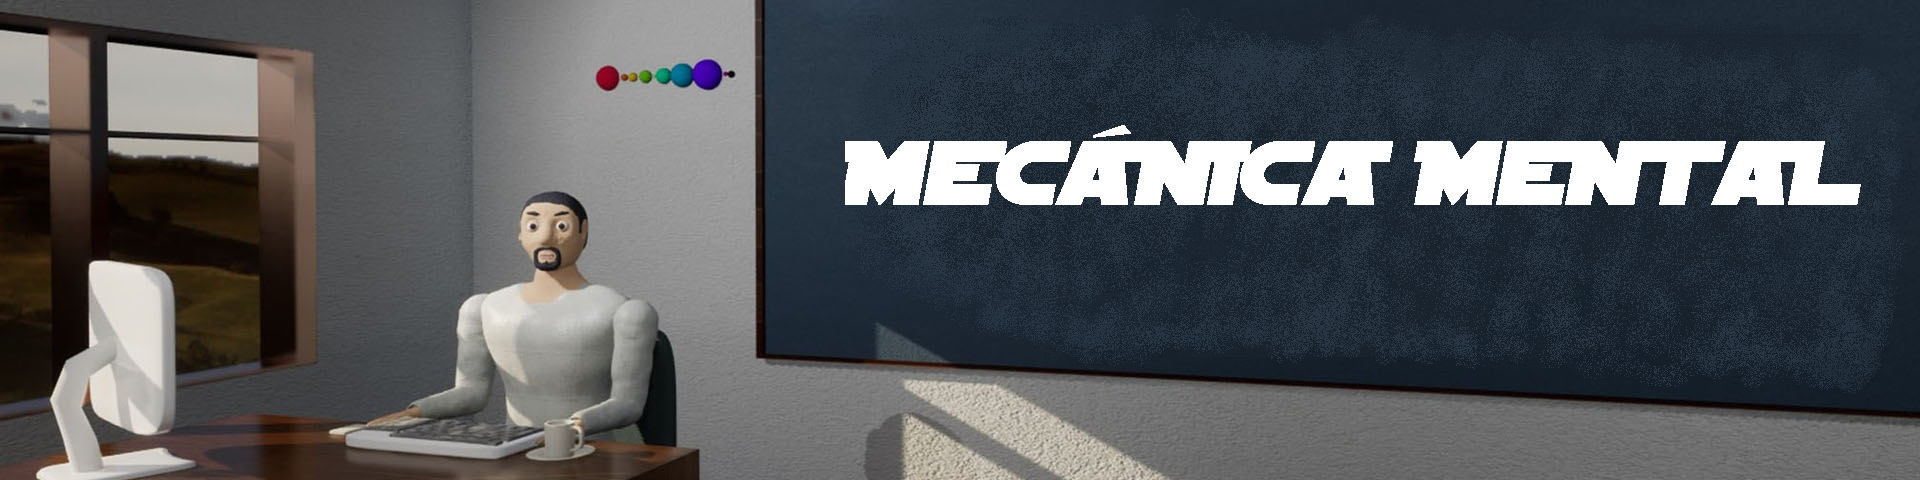
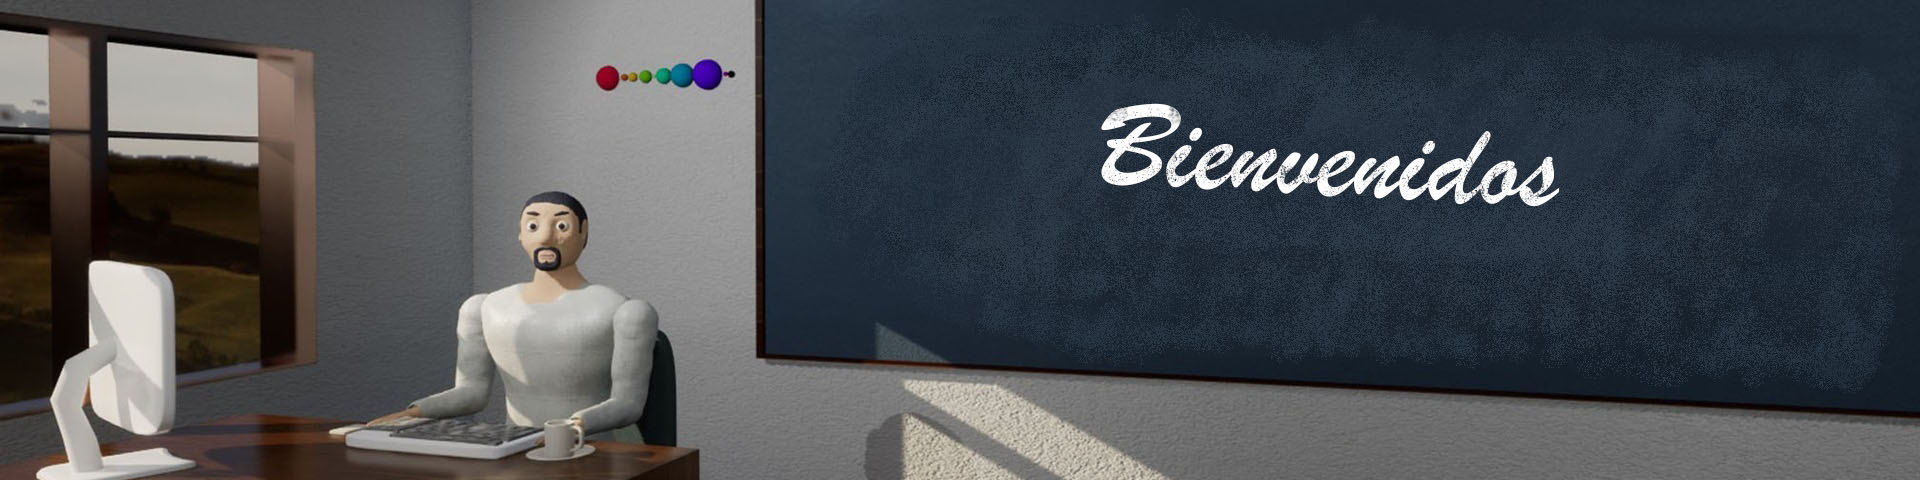
Add files via upload

Changed region(s): [[0.4375, 0.2188, 0.9688, 0.5938]]

diff --git a/index.html b/index.html
@@ -10,75 +10,144 @@
   </head>
   <body style="background-color: black;">
     <img src="imagenes/banner_A.jpg" alt="" class="banner">
-        <h1>Mecánica Mental</h1>
+    <img src="imagenes/banner_A2.jpg" alt="" class="banner">
     <main>
-      <h2 class="titulo">La educación como base para la salud mental, y para una vida en plenitud.</h2>
-      <!--Titulo temporal-->
-      <p>Mecánica Mental, es un sistema educativo dedicado a la comprensión de la mente, y el pensamiento, desarrollado desde la perspectiva del propio usuario de la mente, enfocado al uso eficiente de la mente del propio usuario, y expuesto en palabras simples y fáciles de asimilar.</p>
-      <p>El contenido de la educación mental, proporciona a cada persona conocimientos, experiencia, y saberes que le ayudarán a conocer, y comprender la forma en que los pensamientos se desarrollan, la influencia que estos tienen en nuestra vida, y los métodos que podemos utilizar para aprovechar su capacidad.
-      </p>
-      <p>La educación mental, es un enorme faltante en nuestro estilo de vida, y en nuestra formación como seres humanos. Y ese faltante, es el origen de nuestra ignorancia, de nuestros problemas, de nuestros conflictos, y de nuestro sufrimiento.</p>
+            <!--Titulo temporal-->
+      <img src="imagenes/indice_A.jpg" alt="" class="banner">
+      <div class="contenedor">
+        <img src="imagenes/miniatura_A.jpg" alt="" class="miniatura">
+         <div>
+              <h2>La educación mental, es un sistema educativo dedicado a la comprensión de la mente, los pensamientos, y las ideas.</h2>
+              <p>Este sistema ha sido desarrollado desde la perspectiva del propio usuario de la mente, y se encuentra enfocado al uso eficiente de la mente del propio usuario.</p>
+              <p>El contenido de la educación mental, proporciona a cada estudiante conocimientos, experiencia, y saberes que le ayudarán a conocer, y comprender la forma en que los pensamientos se desarrollan, la influencia que estos tienen en su vida, y los métodos que puede utilizar para aprovechar su capacidad, sin poner en riesgo su salud física, y mental.</p>
+              <p>Dentro de este sistema educativo se incluyen temas básicos y sumamente primordiales referentes al plano de los pensamientos, los cuales son de suma importancia para la formación de bases sólidas en el proceso mental encargado de generar ideas, y pensamientos.</p>
+              <p>Estas bases, permitirán que el estudiante haga uso de su capacidad mental sin poner en riesgo su salud mental, estabilizaran e incrementaran su capacidad de uso, al conocer los procesos con los que funciona su mente, y además, le ayudaran a obtener una experiencia de vida estable, armoniosa, y prospera.</p>
+        </div>
+      </div>
+      <h2>Todo el contenido incluido en este sistema educativo ha sido desarrollado y redactado en palabras simples, y fáciles de asimilar, para así poder ser aplicadas en cada situación de nuestra vida diaria, y en cada problema que nos toque resolver.</h2>
       <br>
-      <img src="imagenes/banner_B.jpg" alt="" class="banner">
+      <img src="imagenes/indice_B.jpg" alt="" class="banner">
+      <div class="contenedor">
+        <img src="imagenes/miniatura_B.jpg" alt="" class="miniatura">
+          <div>
+              <h2>Mecánica Mental es una investigación que ha sido desarrollada desde una experiencia de vida, de forma personal, y autodidacta. </h2>
+              <p>Originalmente, estaba orientada a servir como solución y respuesta a mis propios problemas mentales y personales, y luego de comprobar su utilidad y sus beneficios, ha sido rediseñada y redactada para ser compartida, y ser de utilidad a quien la necesite.</p>
+              <p>Hace aproximadamente nueve años, una pregunta y una serie de interrogantes existenciales, hicieron presencia en mi mente y mis pensamientos, y su aparición, inicio una larga cadena de problemas mentales de elevada complejidad, que marcaron el fin de una etapa de paz, estabilidad y prosperidad en mi vida.</p>
+              <p>Luego de batallar por mucho tiempo en mi interior, logre poner fin a esa cadena de problemas, y logre recuperar esa paz y esa estabilidad que había perdido. </p>
+              <p>Y si logre recuperarlos, fue gracias al trabajo que hice en mí mismo, a los métodos de resolución que logre desarrollar para tratar mis propios problemas, y gracias a que fui capaz de comprender el oculto funcionamiento de mi mente.</p>
+          </div>
+      </div>
+      <p>Lograr recuperar esa paz, y esa estabilidad, me permitió enfocar mi atención por completo en esa pregunta y en esas interrogantes que aparecieron al inicio, me permitió comprender los problemas que se estaban presentando sin cesar en mis pensamientos, me permitió desarrollar una serie de métodos de observación y comprensión, y además, me permitió desarrollar una serie de conclusiones, que pueden ser de gran utilidad para tratar los problemas mentales, utilizando para ello un sistema educativo fácil de comprender, y simple de asimilar.</p>
+      <p>Inicie el desarrollo de esta investigación luego de recuperar esa paz, y esa estabilidad, y dentro de ese lapso de tiempo, me he dedicado a observar mis pensamientos, poner mi atención en mi mente, desarrollar métodos de análisis para comprenderlos, obtener conclusiones sobre lo comprendido, poner en práctica lo comprendido, comprobar la veracidad de las conclusiones comprendidas, y en base a toda esa investigación, redactar los resultados en la forma de una tesis.</p>
+      <h2>Durante todo este tiempo, he tenido que aprender mucho sobre mi mente, y luego de tomar la decisión de compartir mi trabajo y mis conclusiones, he tenido que aprender mucho más.</h2>
       <br>
-      <img src="imagenes/banner_C.jpg" alt="" class="banner">
+      <img src="imagenes/indice_C.jpg" alt="" class="banner">
+      <div class="contenedor">
+        <img src="imagenes/miniatura_C.jpg" alt="" class="miniatura">
+        <div>
+            <h2>El principal objetivo de la educación mental es ofrecer al estudiante herramientas de comprensión mental, con las cuales será capaz de conocer los métodos que utiliza su mente para desarrollar ideas y pensamientos, y con ellos, podrá hacer uso de su capacidad creativa, su capacidad racional, y su capacidad mental en general de una manera óptima, segura, y estable.</h2>
+            <p>El concepto de educación mental, su contenido, su enfoque, y sus objetivos, son un grupo de ideas que fui desarrollando mientras me encontraba luchando por resolver mis propios problemas, y mientras realizaba esta investigación.</p>
+            <p>De esta investigación, logre obtener <strong>tres importantes conclusiones</strong>, y estas, se convirtieron en las bases que determinaron la creación de Mecánica Mental.</p>
+            <p>La <strong>primera conclusión</strong> dice que, esa pregunta, esas interrogantes, y toda esa cadena de problemas que tuve que resolver, tenían su origen en la ignorancia que tenía sobre el funcionamiento de mi mente, y las consecuencias que se desarrollaron a partir de un uso inconsciente, e inadecuado.</p>
+        </div>
+      </div>    
+      <p>La <strong>segunda conclusión</strong>, dice que el origen de esa ignorancia se encuentra en el hecho de que, a lo largo de mi vida, nunca fui educado ni aconsejado de manera apropiada para poder hacer uso de mi capacidad mental, y esto se debe a que en nuestra sociedad y en nuestro sistema educativo no se encuentra incluida la comprensión básica de nuestra capacidad mental, y solo está enfocada al uso que le podemos dar a esa capacidad mental.</p>
+      <p>Y es por este faltante educativo que nos vemos obligados a improvisar en el uso de nuestra mente, tanto a nivel individual, como a nivel de sociedad.</p>
+      <p>La <strong>tercera conclusión</strong>, dice que los problemas mentales son una constante interminable, que nunca se detiene, y que la aparición de los problemas mentales se mantiene, aunque estos sean resueltos. </p>
+      <div class="contenedor">
+        <img src="imagenes/miniatura_D.jpg" alt="" class="miniatura">
+        <div>
+            <p>En otras palabras, si resolvemos un problema, un nuevo problema ocupara su lugar.</p>
+            <p>Estas conclusiones, me dieron a entender que la búsqueda por solucionar nuestros problemas no tiene sentido si no se encuentra un fin, y que nuestra mejor opción es volvernos conscientes de que estamos provocando su aparición, volvernos conscientes de que nuestras acciones son su origen, y ser conscientes de que el uso inadecuado que le damos a nuestra mente, es la principal fuente de todos esos problemas.</p>
+            <p>Es cierto que cada problema, tiene una solución determinada capaz de ponerle fin, y que, en base a esta regla, podemos pensar que la búsqueda de soluciones es el camino más adecuado, sin embargo, si no nos damos cuenta que estamos generando esos problemas, y no comprendemos que su origen se encuentra en nuestras manos, ese camino nunca llegara a su fin.</p>
+            <p>No se trata solo de resolver problemas, también se trata de comprender que esos problemas los estamos generando, y si somos capaces de comprender esto, una enorme cantidad de posibilidades se abrirán frente a nuestros ojos.</p>
+        </div>
+      </div>      
+      <h2>Es por esto que el objetivo de la educación mental se encuentra enfocada a la comprensión del funcionamiento de la mente, y los pensamientos, ya que por medio de este conocimiento podemos dar resolución a nuestros problemas, podemos comprender que significan esos problemas, y podemos evitar su aparición, comprendiendo que somos el origen de esos problemas.</h2>
       <br>
-      <h2>Introducción</h2>
-      <p>Desde el momento de mi nacimiento, y desde que tengo memoria, mi mente y mi pensamiento, siempre han sido mi compañía, mi guía, y mi herramienta, con la cual le he ido dando forma a mi vida, mi existencia, y mi personalidad.</p>
-      <p>Como toda persona racional de este mundo, he usado mi mente, y mi pensamiento para comprender el mundo que me rodea, resolver problemas,  guardar memorias, comprender mis acciones, tomar elecciones, evaluar decisiones, e imaginar posibilidades.</p>
-      <p>Durante toda mi vida, mi mente y mi pensamiento, han servido de una forma correspondiente al uso que le he dado, y ha respondido correctamente a mi personalidad, mis gustos, y mis preferencias, hasta cierto punto…</p>
-      <p>En cierto punto de mi vida, una duda nació dentro de mi, una duda que con el tiempo se hizo más y más grande, generando preguntas, interrogantes, misterios, y una profunda sensación de desconocimiento e ignorancia.</p>
-      <p>Esta sensación, me ha acompañado por el resto de mi vida, provocando en mi interior una profunda inestabilidad emocional, miedo e inseguridad a la hora de hacer uso de aquello que lo había provocado, mi mente y mi pensamiento.</p>
-      <p>Desde que esa duda nació, he tenido que dedicar parte de mi tiempo, mi esfuerzo, mi voluntad, y mi concentración, en lograr dar respuesta a todas esas preguntas que se habían estado generando sin cesar, con el objetivo de volver a obtener paz, seguridad, y tranquilidad.</p>
-      <p>El camino ha sido largo, difícil, lleno de peligros, pérdidas, y sufrimiento, y a pesar de todo lo que tuve que vivir, y por todo lo que tuve que pasar, no me arrepiento de haberlo hecho, ya que el aprendizaje, las enseñanzas, los conocimientos, la experiencia, y las respuestas que logre traer hasta aquí, son de un valor sin igual, que compensan generosamente la balanza de mi equilibrio, mi paz, mi estabilidad, y mi felicidad.</p>
-      <p>Hoy, estimado lector, quiero compartir contigo aquello que aprendí, aquello que viví, aquello que comprendí, y aquello que experimente, con el propósito de que este te sea de utilidad a lo largo de tu vida y tu experiencia en este vasto y bello mundo, y para que no acabes por los lugares donde me tocó pasar.</p>
+      <img src="imagenes/indice_D.jpg" alt="" class="banner">
+      <div class="contenedor">
+        <img src="imagenes/miniatura_E.jpg" alt="" class="miniatura">
+        <div>
+            <h2>El primer beneficio que el estudiante podrá obtener al adquirir educación mental, será estabilidad al hacer uso de su capacidad mental.</h2>
+            <h2>Si el estudiante logra obtener estabilidad, el segundo beneficio que podrá obtener, será aclarar su capacidad mental, y optimizar los procesos con los que su mente desarrolla sus ideas, y sus pensamientos.</h2>
+            <p>Cada día de nuestra vida, hacemos uso de nuestra capacidad mental, y todo lo que hacemos se encuentra influenciado por nuestra mente.</p>
+            <p>Si comprendemos la enorme importancia que tiene esta capacidad para nuestra vida, entonces podremos comprender porque la estabilidad es tan importante.</p>
+            <p>Nuestra vida diaria, se encuentra construida por un interminable camino de problemas que debemos resolver de forma constante, y como ya te he explicado, la gran mayoría de esos problemas, son producidos por nosotros mismos, y sin ser conscientes de ello.</p>
+        </div>
+      </div>
+      <div class="contenedor">
+        <img src="imagenes/miniatura_F.jpg" alt="" class="miniatura">
+        <div>
+            <p>Todos esos problemas, poseen una complejidad variable que se encuentra en un constante aumento, y ese aumento, es el encargado de desestabilizar y desequilibrar nuestra capacidad mental.</p>
+            <p>Cuando somos sobrepasados por nuestros problemas, nuestra mente comienza a funcionar de manera inestable, haciendo que el proceso que se encarga de resolver esos problemas funcione de manera irregular, evitando que podamos resolver nuestros problemas de la manera adecuada, y además, generando nuevos problemas en el camino.</p>
+            <p>Somos seres humanos, seres vivos provistos de una descomunal capacidad mental, y esta capacidad, es la mayor diferencia que podemos encontrar al compararnos con las demás especies de seres vivos.</p>
+            <p>Esa descomunal capacidad mental, se encuentra enfocada principalmente en resolver los problemas que nos afectan, y esos problemas, actúan como limitadores, que evitan que podamos enfocar esa descomunal capacidad mental en otras tareas.</p>
+            <p>Si somos capaces de estabilizar el funcionamiento de nuestra mente, seremos capaces de resolver los problemas que se nos presenten de manera óptima, y rápida.</p>
+        </div>
+      </div>
+      <h2>Y gracias a ese estado de funcionamiento, nuestra mente dejara de funcionar con la resolución de problemas como prioridad, liberara su potencial, y podremos hacer uso de ese potencial para enfocarlo en lo que más nos guste, o lo que más necesitemos.</h2>
       <br>
-      <h2>Origen y fuentes</h2>
-      <p>Antes de comenzar a compartir este sistema educativo, lo primero que debo hacer es revelar el origen y las fuentes de este material, ya que es necesario y fundamental a la hora de comprender en profundidad cada una de sus partes.</p>
-      <p>En primer lugar, debo advertirte que no soy psicólogo, filósofo, ni escritor. Tampoco poseo estudios universitarios de ningún tipo que avalen y certifiquen mi experiencia en esta área de trabajo.
-        Todo lo escrito, todo lo aprendido, todo lo comprendido, todo lo compartido, y todo lo que se encuentra plasmado en este taller ha sido obtenido por mi mismo, por medio de mi propia experiencia, y por un trabajo que hice en mi mismo.</p>
-      <p>Como a cada habitante de este mundo, mi vida y mis elecciones me llevaron por una serie de situaciones y experiencias específicas. Y fueron estas vivencias las que dieron como fruto esta investigación, este taller, estas conclusiones, y este material.</p>
-      <p>Dentro de este taller, utilizaré y compartiré parte de mis experiencias y vivencias, con el objetivo de servir de ejemplo, de experiencia, y de apoyo a la hora de expresar respuestas, mostrar resultados, y compartir conocimientos.</p>
-      <p>Te recuerdo, y te advierto antes de comenzar, que este estudio no busca ser expresado como una verdad absoluta, ni como un resultado final, sino más bien como una guía, una recomendación, o un sendero que nos lleve a lograr comprender los misterios de la mente y el pensamiento, y con ello, obtener un estado racional armónico, tranquilo, funcional, y a fin a cada persona, y su experiencia de vida.</p>
-      <p>Si lo deseas, y esto te vuelve más fácil su comprensión, puedes tomar este taller como la “opinión” de alguien, sobre un tema en específico, que arroja una serie de particulares conclusiones y resultados, los cuales le ayudaron a armonizar, y re ordenar, su propia mente, sus propios pensamientos, y su propia vida.</p>
-      <br>
-      <img src="imagenes/proceso.jpg" width="50%;">
+      <img src="imagenes/indice_E.jpg" alt="" class="banner">
+      <div class="contenedor">
+        <img src="imagenes/miniatura_G.jpg" alt="" class="miniatura">
+        <div>
+            <h2>La educación mental se encuentra disponible para todas las personas, y para todas las edades, sin embargo, debido a ciertas características de la mente, hay ciertos puntos que debemos tener en cuenta, ya que estos determinarán el grado en el que este sistema de educación influirá en cada persona.</h2>
+            <p>Nuestra mente, posee dos etapas de desarrollo que determinan su funcionamiento y sus capacidades, <strong>adaptación y resolución</strong>, y debido a esto, debemos comprender que la etapa en la que nos encontremos, determinara como nos afecta la educación mental.</p>
+            <p>Cuando nos encontramos en nuestra etapa de juventud, y aún no hemos alcanzado por completo nuestra madurez, nuestra mente se encuentra en la etapa de <strong>adaptación</strong>, una etapa en la que se encuentra centrada y enfocada en adquirir información para comprender el entorno en el que nos encontramos, obtener y memorizar conocimientos, aprender habilidades, y conocer el mundo que nos rodea.</p>
+            <p>Cuando logramos alcanzar nuestra madurez, y nuestra etapa de adultez, nuestra mente, comienza a trabajar en la etapa de <strong>resolución</strong>, una etapa en la que nuestra mente comienza a desarrollar sus propias conclusiones, y a funcionar en base a esas conclusiones.</p>
+        </div>
+      </div>
+      <p>Esto no significa que las capacidades de aprender de una persona adulta desaparecen, significa que esta capacidad se reduce, para dejar paso a otro tipo de capacidades.</p>
+      <p>Debido a esta característica de nuestra mente, debemos comprender que el momento óptimo para adquirir educación mental es en la juventud, cuando la mente de la persona se encuentra en la etapa de adaptación, aún se encuentra abierta a los cambios, y posee una flexibilidad que le permite alterar su desarrollo.</p>
+      <p>Esto no significa que la educación mental no pueda ser de ayuda, y no pueda ser asimilada por una persona adulta, puede ser de ayuda, y puede ser asimilada, sin embargo, las posibilidades de que esta educación lo afecte, serán menores si la comparamos con una persona que se encuentra en su etapa de juventud.</p>
+      <div class="contenedor">
+        <img src="imagenes/miniatura_H.jpg" alt="" class="miniatura">
+        <div>
+            <h2>Como experiencia, para explicar mejor este punto, puedo decirte que, a mi edad, y a pesar de haber desarrollado esta investigación, no he podido alterar por completo la funcionalidad de mi mente, ya que mi mente se encuentra en la etapa de resolución, y funciona por medio de sus propias conclusiones.</h2>
+            <h2>Para poder modificar ciertas partes de su funcionalidad, he tenido que poner una gran cantidad de voluntad, compromiso y atención en ello, y me he tenido que exigir al máximo para poder contrarrestar mis propias costumbres, ya que la mente, trabaja en base a los hábitos, y las costumbres, y cuando ya las hemos tomado, es muy difícil poder dejarlas.</h2>
+            <p>Cuando somos jóvenes, y nuestra mente aún se encuentra en la etapa de adaptación, los hábitos y las costumbres aún no se encuentran completamente definidos, y pueden cambiarse con facilidad, y debido a esto, es posible incluso alterar el funcionamiento de nuestra mente, para que esta desarrolle ideas y pensamientos de una forma más optima, y eficiente.</p>
+            <h2>Otro punto que debemos tener en cuenta para saber si este sistema educativo nos puede ser de utilidad, es el punto en que nos encontramos de nuestra etapa de juventud.</h2>
+        </div>
 
-      <h2 class="titulo">Todo el contenido se ha desarrollado para ser fácil de comprender, y simple de asimilar.</h2>
-      <hr>
-      <h2>Los objetivos de este sistema educativo son: </h2>
-      <ul>
-        <li>Comprender el funcionamiento de nuestra mente.</li>
-        <li>Fortalecer las raíces de nuestra capacidad mental. </li>
-        <li>Favorecer el crecimiento de nuestra capacidad creativa.</li>
-        <li>Equilibrar el desarrollo de nuestra capacidad racional.</li>
-        <li>Conocer el sistema que genera nuestros pensamientos.</li>
-        <li>Concientizar sobre el uso inadecuado de nuestra capacidad mental, y sobre sus consecuencias.</li>
-        <li>Compartir con el usuario, herramientas y métodos que le permitan armonizar su corriente de pensamientos. </li>
-        <li>Fomentar la autocomprensión, auto resolución, autoaprendizaje, y autoconocimiento.</li>
-        <li>Fortalecer la voluntad, constancia, perseverancia, y esfuerzo, como las claves para el crecimiento.</li>
-      </ul>
-      <hr>
-
-      <h2>Organigrama del taller. (etapa de fundación, y lanzamiento)</h2>
-      <ul>
-        <li>El taller se dicta de manera presencial, y particular.</li>
-        <li>Consta de tres talleres semanales, de una hora de duración.</li>
-        <li>El lugar de dictado, y la hora, se establece con cada persona. Puede ser domicilio particular, o al aire libre. Disponibilidad limitada. (Consulte por horarios libres).</li>
-        <li>Está destinado a personas de entre 17 y 20 años, rango de aprendizaje óptimo. (Consulte las opciones para mayores de 21 años).</li>
-        <li>En etapa de fundación, y lanzamiento, el costo del taller puede ser pagado por medio de donativos, los cuales serán utilizados para continuar con el desarrollo y fundación de la institución.</li>
-      </ul>
-      <hr>
-      <h2>Temas incluidos en la primera parte del taller.</h2>
-      <h4>Esta parte del taller posee un enfoque teórico, y su contenido tiene como objetivo conocer y comprender el proceso que se desarrolla en nuestra mente, y el sistema que le da forma a nuestros pensamientos.</h4>
+      </div>
+      
+      <p>El contenido de este sistema educativo ha sido desarrollado con palabras simples, y fáciles de asimilar, sin embargo, a pesar de su simplicidad, se requiere de cierta madurez para poder ser comprendido, algo que puede sonar un poco contradictorio.</p>
+      <div class="contenedor">
+        <img src="imagenes/miniatura_I.jpg" alt="" class="miniatura">
+        <div>
+            <h2>Como medida de referencia, podemos tomar el rango de edad de entre diecisiete años (17) y veintiún años (21), como el punto óptimo para que la educación mental afecte al estudiante de la mejor manera.</h2>
+            <p>Lo que debes recordar es que lo importante no es la edad, sino la etapa de desarrollo en la que se encuentra nuestra mente.</p>
+            <p>A partir de los veintiún años, se presenta la adultes y la madurez, y con la llegada de esta etapa, nuestra mente comienza a trabajar por medio de la resolución.</p>
+            <p>La etapa de adultez y madurez, no siempre se da exactamente en esa edad, sin embargo, debemos tener en cuenta que, si se presenta a partir de esa edad, por lo tanto, podemos decir que a partir de los veintiún años nuestra mente ya se dirige hacia su etapa de resolución, lo que no sabemos es en qué momento la alcanzara.</p>
+            <p>Por debajo de los diecisiete años, nos encontramos dentro de la etapa de adaptación, sin embargo, debido a la escases de experiencia, considero a estas edades como poco preparadas para los contenidos incluidos en este sistema educativo.</p>
+        </div>
+      </div>
+      <h2>El objetivo de la Mecánica Mental es presentarse como un sistema educativo desarrollado para todas las edades, sin embargo, debido a la etapa de crecimiento en la que se encuentra el proyecto, solo me es posible centrarme en su rango más optimo.</h2>
+      <br>
+      <img src="imagenes/indice_F.jpg" alt="" class="banner">
+      <div class="contenedor">
+        <img src="imagenes/miniatura_J.jpg" alt="" class="miniatura2">
+        <div>
+            <h2>El material de enseñanza con el que se dicta este sistema educativo está conformado específicamente por la investigación que he desarrollado a lo largo de estos nueve años, y por la redacción de la tesis, que he escrito durante el último año.</h2>
+            <p>El primer volumen de esta tesis, ya se encuentra terminada, y consta de dos partes, contenido <strong>teórico</strong>, y contenido <strong>practico</strong>.</p>
+            <p>El segundo volumen se encuentra en desarrollo, y estará conformado por dos partes, contenido <strong>existencial</strong>, y contenido <strong>mental</strong>.</p>
+            <p>El primer volumen, posee un formato de libro de 340 páginas, y ha sido escrito para servir como base y guía para este sistema educativo. Su redacción, su desarrollo, sus ilustraciones, y su medio de organización han sido parte de mi esfuerzo, y mi trabajo, y como nota personal, debo decirte que ha sido todo un desafío, y todo un privilegio.</p>
+        </div>
+      </div>
+      <h2>Volumen uno, primera parte, contenido teórico.</h2>
+      <div class="contenedor">
+        <img src="imagenes/miniatura_K.jpg" alt="" class="miniatura2">
+        <div>
+            <p>La primera parte de este volumen, posee un enfoque dedicado a la comprensión del funcionamiento de nuestra mente, a nivel personal, y desde la perspectiva de la persona. En otras palabras, no intenta expresar una perspectiva general de la mente, solo busca una comprensión personal.</p>
+            <p>En esta parte, se incluye y se detalla todo el proceso interno que realiza nuestra mente para desarrollar ideas, datos, recuerdos y pensamientos, partiendo desde el momento en el que la información es obtenida por nuestros sentidos, pasando por el proceso que se genera en la oscuridad de nuestro interior, hasta el momento en el que obtenemos el resultado, en la forma de nuestros propios pensamientos.</p>
+            <p>Dentro de esta parte, también se menciona la importancia de nuestra intención, nuestra atención, nuestra concentración, y nuestra voluntad en cada uno de los procesos de nuestra mente.</p>
+        </div>
+      </div>
+      <h2>Índice temático de la primera parte.</h2>
       <ol>
-        <li>Introducción.</li>
-        <li>Principios básicos I - Tu voz interior</li>
-        <li>Principios básicos II - Pensar, y saber pensar</li>
-        <li>Principios básicos III - Manual de usuario</li>
-        <li>Introducción a la Mecánica Mental - La pregunta, y la respuesta</li>
-        <li>Introducción a la Mecánica Mental - Punto de vista</li>
-        <li>Introducción a la Mecánica Mental - Yo, la mente, y el pensamiento</li>
+        <li>Principios básicos</li>
+        <li>Introducción a la Mecánica Mental</li>
         <li>Proceso Mental I - Fundamentos</li>
         <li>Proceso Mental II - Percepción</li>
         <li>Proceso Mental III - Proceso Mental Interno</li>
@@ -86,21 +155,120 @@
         <li>Los pilares del proceso Mental - Introducción</li>
         <li>El pilar de la Imaginación</li>
         <li>El pilar de la inteligencia </li>
-        <li>El pilar de la creatividad </li>
+        <li>El pilar de la creatividad</li>
         <li>El pilar de la Lógica </li>
         <li>El pilar de la Intuición</li>
         <li>El pilar de la Memoria </li>
+        <li>Atención - Intención – Concentración</li>
+        <li>Voluntad, la llave de la mente</li>
         <li>Yo, el ser </li>
         <li>Lo que nos rodea</li>
       </ol>
-      <hr>
-      <h2>Temas incluidos en la segunda parte del taller.</h2>
-      <h4>Esta parte del taller posee un enfoque práctico, y su contenido presenta diferentes herramientas, métodos y consejos que al ser aplicados, permiten al usuario comprender, resolver,  y remediar las diferentes problemáticas que se nos presentan en nuestro dia a dia.</h4>
-
-      <img src="imagenes/proximamente.jpg" width="50%;">
-      <hr>
-      <h2>Visión a largo plazo</h2>
-      <p>La visión a largo plazo de Mecánica Mental, y de este sistema educativo, es lograr construir una institución sólida, en la cual puedan ser compartidos, impartidos, investigados, y desarrollados, todos los conocimientos y saberes necesarios para la comprensión de nuestra capacidad mental. Para que estos, le sean de utilidad a cada persona, y con ello, puedan desarrollar una aplicación segura, confiable, saludable, armónica, y favorable para todos los integrantes de nuestra sociedad.</p>
+      <h2>Volumen uno, segunda parte, contenido practico.</h2>
+      <div class="contenedor">
+        <img src="imagenes/miniatura_L.jpg" alt="" class="miniatura2">
+        <div>
+            <p>La segunda parte de este volumen, posee un enfoque dedicado a la puesta en práctica de lo aprendido en la primera parte.</p>
+            <p>El objetivo de esta segunda parte es que el propio estudiante sea capaz de observar, conocer y comprender su propia mente, y con ello, sea capaz de ordenar, organizar, y administrar los procesos que se llevan en su interior de manera inconsciente, para así poder realizarlos de manera consciente.</p>
+            <p>Para realizar esta tarea, se utilizan diferentes métodos de comprensión, como el uso de la bitácora, el conocimiento de la LEY, los contrastes, la meditación como medio de observación, las semejanzas entre plantas e ideas, la comprensión de los conocimientos, y la importancia del criterio.</p>
+            <p>Otro punto de gran interés en la segunda parte, serán los problemas mentales, y las enfermedades mentales. Estos serán observados y analizados desde diferentes puntos de vista, para así poder ser comprendidos, y con ello, lograr obtener el mejor camino para poder darles resolución, y evitar su aparición.</p>
+        </div>
+      </div>
+      <p>Para este sistema educativo, las enfermedades mentales son consideradas como el resultado de problemas mentales no resueltos, o resueltos de manera errónea.</p>
+      <p>En otras palabras, para poder tratar estas enfermedades mentales se buscará siempre identificar el problema mental que la origina, y trabajar en el propio problema para darle una resolución, sin la necesidad de atacar la enfermedad.</p>
+      <h2>Índice temático de la segunda parte.</h2>
+      <ol>
+        <li>La bitácora</li>
+        <li>Los hábitos y la mente</li>
+        <li>Crecimiento en plantas e ideas</li>
+        <li>Problemas y enfermedades mentales</li>
+        <li>Los contrastes de la vida</li>
+        <li>Traumas y eventos en nuestra mente</li>
+        <li>La mente, y los fracasos</li>
+        <li>El joven y el anciano</li>
+        <li>La mente, el lenguaje y la comunicación</li>
+        <li>La LEY</li>
+        <li>El conocimiento, la viveza y la sabiduría</li>
+        <li>El conocimiento y la ignorancia</li>
+        <li>Conocimientos, creencias y afirmaciones</li>
+        <li>Entre la realidad y la ficción</li>
+        <li>Vínculos y conflictos con los demás</li>
+        <li>Apego y desapego</li>
+        <li>Meditación, un estado de comprensión</li>
+      </ol>
+      <h2>Volumen dos, en desarrollo.</h2>
+      <div class="contenedor">
+        <img src="imagenes/miniatura_M.jpg" alt="" class="miniatura2">
+          <div>
+              <p>Si analizamos el volumen uno, y su contenido, notaremos que su primera parte, es una preparación para poder comprender y trabajar la segunda parte, y del mismo modo, podemos decir que el volumen uno, es una preparación para poder comprender y trabajar el volumen dos.</p>
+              <p>El volumen dos, se desarrollará con un enfoque profundo y existencial, en el que exploraremos no solo la profundidad de nuestro ser, sino también la profundidad de nuestra mente.</p>
+          </div>
+      </div>
+      <p>En este volumen, se plantearán y analizaran diversas preguntas existenciales, que suelen ser de difícil resolución, y de difícil comprensión, y que, además son el origen de las incomprensibles crisis existenciales.</p>
+      <h2>Para la redacción, y el desarrollo de todo el contenido disponible en este sistema educativo, me he dado el trabajo de incluir una serie de experiencias propias, que he utilizado como ejemplo para poder explicar y demostrar las diversas conclusiones, y los diferentes métodos de observación, análisis, y estudios compartidos.</h2>
+      <br>
+      <img src="imagenes/indice_G.jpg" alt="" class="banner">
+      <h2>Por el momento, el proyecto se encuentra en etapa de fundación, el material de estudio solo incluye el primer volumen, y el segundo aún se encuentra en desarrollo.</h2>
+      <p>Es cierto que, viéndolo de esta manera, puede parecer realmente poco, sin embargo, si pensamos que actualmente no existe un sistema educativo enfocado a la comprensión de la mente, las ideas, y los pensamientos, entonces, si parece algo significativo.</p>
+      <p>Actualmente, el tiempo que le dedico a la redacción del material de estudio, es realmente poco, y esto se debe a que gran parte de mi tiempo lo dedico a mi jornada laboral, algo necesario para solventar mis gastos.</p>
+      <p>Cada día, dedico alrededor de tres horas a la redacción del material, y en ese pequeño lapso de tiempo, debo desarrollar los temas, corregirlos, reescribirlos, reordenarlos, y corregirlos nuevamente.</p>
+      <h2>(Lamentablemente, la redacción no es mi fuerte…)</h2>
+      <p>El material se encuentra disponible, simplemente aún no he tenido tiempo para escribirlo, redactarlo, y ordenarlo.</p>
+      <br>
+      <img src="imagenes/indice_H.jpg" alt="" class="banner">
+      <h2>Cada clase, es una conversación abierta y guiada por el orden establecido en el índice temático de la Mecánica Mental, en el que el objetivo principal es compartir todo el contenido incluido, y el objetivo secundario es simplemente hablar sobre nuestra mente, nuestras dudas sobre sus capacidades, su funcionalidad, y su misteriosa profundidad.</h2>
+      <p>Debido a que este sistema educativo se encuentra en etapa de <strong>Fundación</strong>, las clases, su duración, y el lugar de reunión, aún se encuentran indefinidos.</p>
+      <p>Por el momento, si estás interesado, debes comunicarte conmigo utilizando los medios de contacto para así agendar horarios, y lugar de dictado.</p>
+      <h2>Esta sección se ira actualizando en la medida en que el propio sistema educativo se valla desarrollando.</h2>
+      <br>
+      <img src="imagenes/indice_I.jpg" alt="" class="banner">
+      <p>Para poder comprender los alcances de este proyecto, y de Mecánica Mental, el mejor camino es conocer la visión a futuro de lo que busca ser.</p>
+      <h2>Mecánica Mental, es un método de investigación y educación mental, y su objetivo no es comprender e investigar la mente en general, sino lograr que el estudiante sea capaz de comprender su propia mente, y por medio de este conocimiento, ser capaz de regular y reorganizar sus propios procesos, para que esos procesos afecten favorablemente su estilo de vida, y su manera de actuar.</h2>
+      <p>La razón mas importante de este objetivo, tiene su origen en una de las más importantes características de la mente, su capacidad <strong>Polimórfica</strong>.</p>
+      <p>Esta característica, permite que la mente cambie de forma, se adapte a la persona, altere su funcionamiento, y se desarrolle como algo único, e inigualable. Por esta razón, las conclusiones y comprensiones generales no siempre servirán como respuesta a las interrogantes individuales, debido a que todas las mentes son diferentes, y solo son similares en apariencia.</p>
+      <p>El trabajo de investigación, de comprensión, y de conocimiento mental, siempre deben ir de la mano del propio estudiante, ya que es la mente del propio estudiante lo que se intenta conocer, y es el propio estudiante quien desea conocerla.</p>
+      <p>La mente, posee un tamaño indefinido e inconmensurable, profundo y misterioso, y debido a sus características, lo que podemos encontrar, nunca llegara a un fin. Y esto se debe a que nuestra mente, aún se mantiene en crecimiento, expansión y evolución, por lo tanto, nunca terminaremos de conocerla, y nunca seremos capaces de desarrollar un conocimiento general.</p>
+      <h2>Nuestro mejor camino para que este conocimiento sea de utilidad y se ponga al servicio de la sociedad, es educar y preparar al individuo, para que este se vuelva conocedor de las capacidades de su mente, se vuelva conocedor de las consecuencias de un mal uso, sea responsable con lo que es capaz de hacer, y sea consciente de como puede afectar a la sociedad que lo rodea.</h2>
+      <p>De esta manera, podemos decir que la visión a futuro de Mecánica Mental, es convertirse en una institución educativa, en la que se investigue, se estudie, se eduque, y se profundice el trabajo de comprensión de la mente.</p>
+      <p>Buscando siempre beneficiar al individuo, para que las enseñanzas se reflejen en sus actos, y sus actos, se reflejen en nuestro estilo de vida, y nuestra sociedad en general.</p>
+      <p>Si somos capaces de asimilar este conocimiento a nivel individual, podremos alterar nuestra manera de actuar, y como consecuencia, viviremos de una manera más saludable, pacifica, y armónica.</p>
+      <h2>Si somos capaces de asimilar este conocimiento a nivel general, podremos alterar nuestro estilo de vida, y como consecuencia, construiremos una sociedad más saludable, pacifica, y armónica.</h2>
+      <br>
+      <img src="imagenes/indice_J.jpg" alt="" class="banner">
+      <div class="contenedor">
+        <img src="imagenes/portada.jpg" alt="" class="miniatura">
+        <div>
+            <p>Hola, mi nombre es Andrés, soy chileno, tengo cuarenta y dos años, y antes de contarte un poco de mi historia, quiero que sepas que no soy psicólogo, no soy psiquiatra, no soy filosofo, no soy escritor, no soy investigador, y no poseo estudios académicos que certifiquen, o valúen mi trabajo.</p>
+            <p>Todo lo que he escrito, todo lo que he investigado, todas las conclusiones que he obtenido, y los métodos de análisis que he desarrollado, son parte de una tarea autodidacta, y el fruto de mi esfuerzo por tratar mis propios problemas y responder a mis propias interrogantes.</p>
+            <p>Como ya te he contado, toda esta investigación se desarrollo a partir de una pregunta, una serie de interrogantes, y una larga cadena de problemas mentales.</p>
+            <p>Lo que me sucedió, cambio mi vida, y cambio mi forma de ver la vida, y en el camino, me di cuenta de que no era el único que sufría estos problemas, y que era mi responsabilidad compartir aquello que me había ayudado.</p>
+            <p>Antes de que todo esto sucediera, tenia una experiencia tranquila, pacifica, y prospera.</p>
+            <p>Tenia un trabajo, una casa, amigos, pasatiempos, y un estilo de vida sin mayores preocupaciones.</p>
+        </div>
+      </div>
+      <h2>Un día, una pregunta se hizo presente en mis pensamientos, y al intentar resolverla, algo extraño sucedió…</h2>
+      <p>Esta pregunta, no parecía tener una gran dificultad para ser respondida, ni mucho menos una complejidad apreciable, es más, parecía algo sumamente obvio y ya sabido, sin embargo, por curioso que te parezca, cuando quise responderla, no pude hacerlo, ya que no pude encontrar una respuesta.</p>
+      <p>Esa pregunta, era algo que yo ya sabía desde hace mucho tiempo, o al menos era lo que pensaba en ese momento, ya que se refería a algo sumamente básico, prácticamente primordial.</p>
+      <p>El hecho de no poder responder a esa pregunta, provoco algo en mi mente, y en ese momento, pude sentir como esta se desarmaba por completo, haciendo que mas y mas preguntas aparecieran, y que mi preciada estabilidad desapareciera…</p>
+      <h2>¿Qué es la mente?</h2>
+      <h2>¿Qué son los pensamientos?</h2>
+      <h2>¿Qué son las ideas?</h2>
+      <h2>¿Cómo funciona la mente?</h2>
+      <h2>¿Qué significa pensar?</h2>
+      <p>Con cada minuto que pasaba, las interrogantes iban aumentando, y ese aumento, hizo que mi confianza en mis pensamientos desapareciera.</p>
+      <p>¿Cómo era posible que no supiera lo que significaba pensar?</p>
+      <div class="contenedor">
+        <img src="imagenes/portada_B.jpg" alt="" class="miniatura">
+        <div>
+            <p>Durante toda mi vida, había utilizado mi capacidad mental en todo lo que había hecho, cada uno de mis actos había sido pensado antes de ser realizado, sin embargo, no sabía realmente cómo funcionaba, no sabía que significaba ese funcionamiento, ni quien ordenaba su manera de funcionar.</p>
+            <p>Con el paso del tiempo, mi estado fue empeorando.</p>
+            <p>Cada vez que escuchaba mi propia voz interior, una sensación de desconfianza y angustia aparecía. Intentaba acallar mis pensamientos, dejar de utilizarlos, y esto, solo provocaba que esa voz se hiciera más y más fuerte.</p>
+            <p>Por fuera, me veía igual que siempre, actuaba igual que siempre, y sonreía igual que siempre, sin embargo, en mi interior, era un verdadero infierno.</p>
+            <p>Sentía una completa desconfianza hacia aquello que utilizaba para razonar, tenía miedo de pensar, de imaginar, y no podía confiar ni siquiera en lo que creía saber.</p>
+        </div>
+      </div>
+      <p>Luego de ver que mi estado no mejoraba, y que esa profunda angustia no desaparecía, comencé a pensar en pedir ayuda a un psicólogo, para que este me ayudara a resolver este problema, sin embargo, mientras me planteaba todo esto, algo extraño sucedió en mí, y ese algo, evito que solicitara la ayuda de un psicólogo, y me dio fuerzas para resolverlo por mí mismo.</p>
+      <h2>El tiempo paso, mis fuerzas aumentaron, mi confianza se incrementó, las respuestas aparecieron, y con ello, también regreso mi estabilidad, y si te interesa saber como lo logre, te invito a participar de este proyecto, y ser parte de Mecánica Mental.</h2>
       <hr>
       <h3>Medios de contacto</h3>
       <h4>Correo electronico - mecanicamental.369@gmail.com</h4>

diff --git a/style.css b/style.css
@@ -1,10 +1,19 @@
-h1 {color: rgb(247, 171, 8); font-family: "Pacifico", cursive;}
-h2 {color: rgb(238, 248, 103); font-family: "Tektur", sans-serif;}
+h1 {color: rgb(253, 218, 143); font-family: "Pacifico", cursive;}
+h2 {color: rgb(238, 248, 103); font-family: "Tektur", sans-serif; font-size: large;}
 h3 {color: rgb(48, 250, 250);}
-h4 {color: rgb(215, 252, 155); font-family: "Tektur", sans-serif;}
+h4 {color: rgb(232, 207, 18); font-family: "Tektur", sans-serif;}
 h5 {color: white;}
 p {color: white; font-family: "Tektur", sans-serif;}
 ul {color: white; font-family: "Tektur", sans-serif;}
 ol {color: white; font-family: "Tektur", sans-serif;}
 
 .banner {width: 98%;}
+.miniatura {width: 20%;}
+.miniatura2 {width: 10%;}
+.contenedor{
+    display: flex;
+    margin-left: 10px;
+    margin-right: 10px;
+    margin-top: 10px;
+    margin-bottom: 10px;
+}
